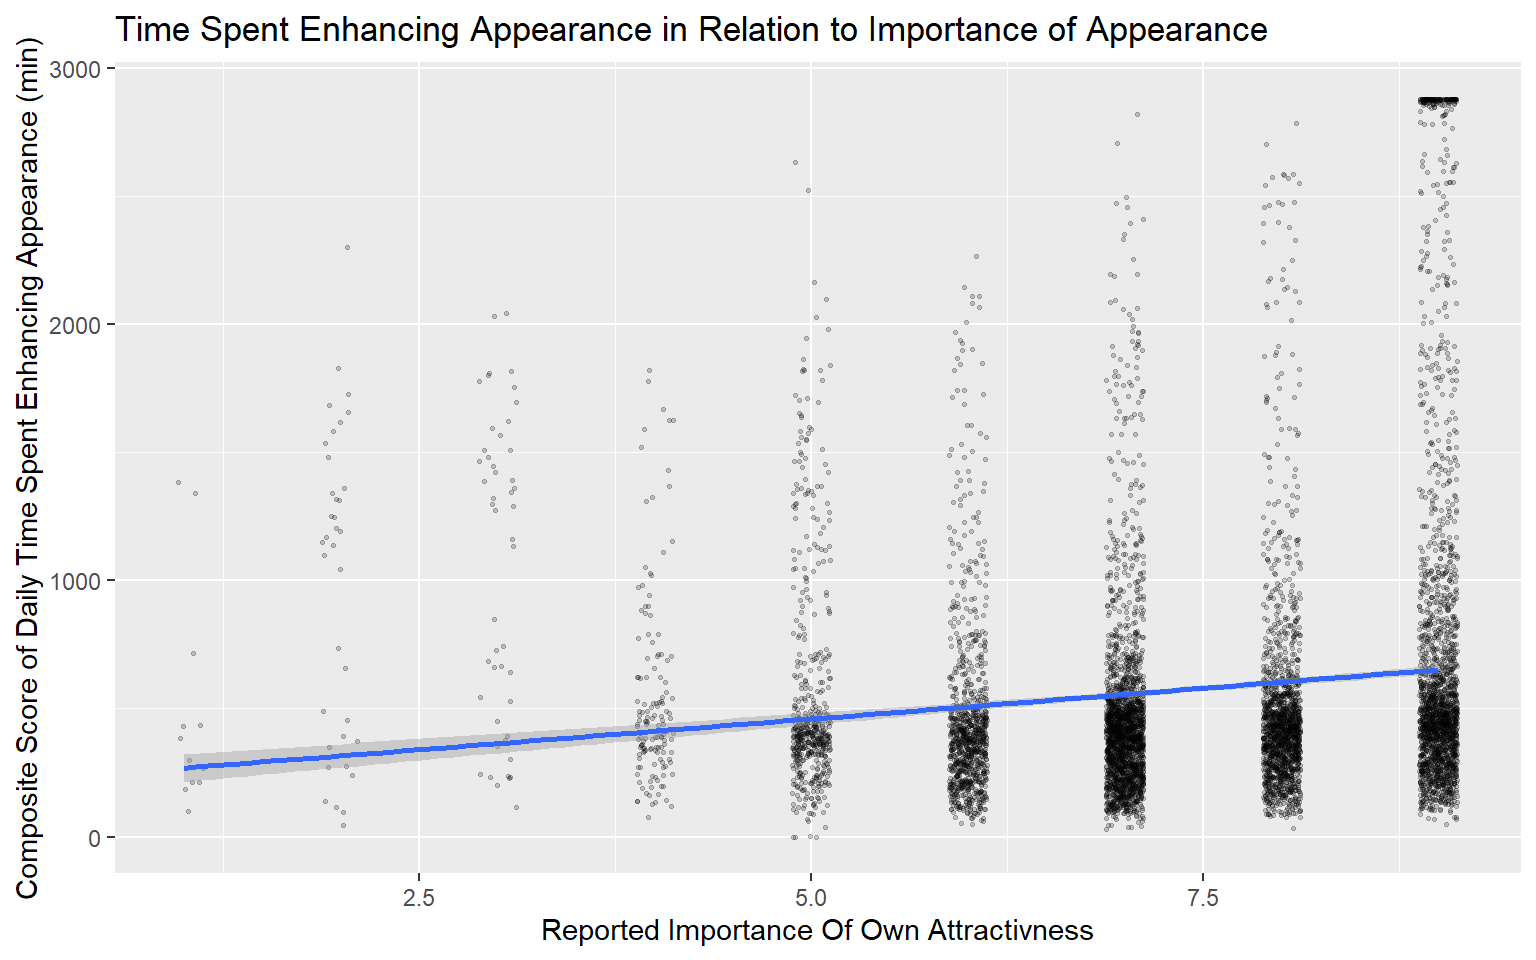
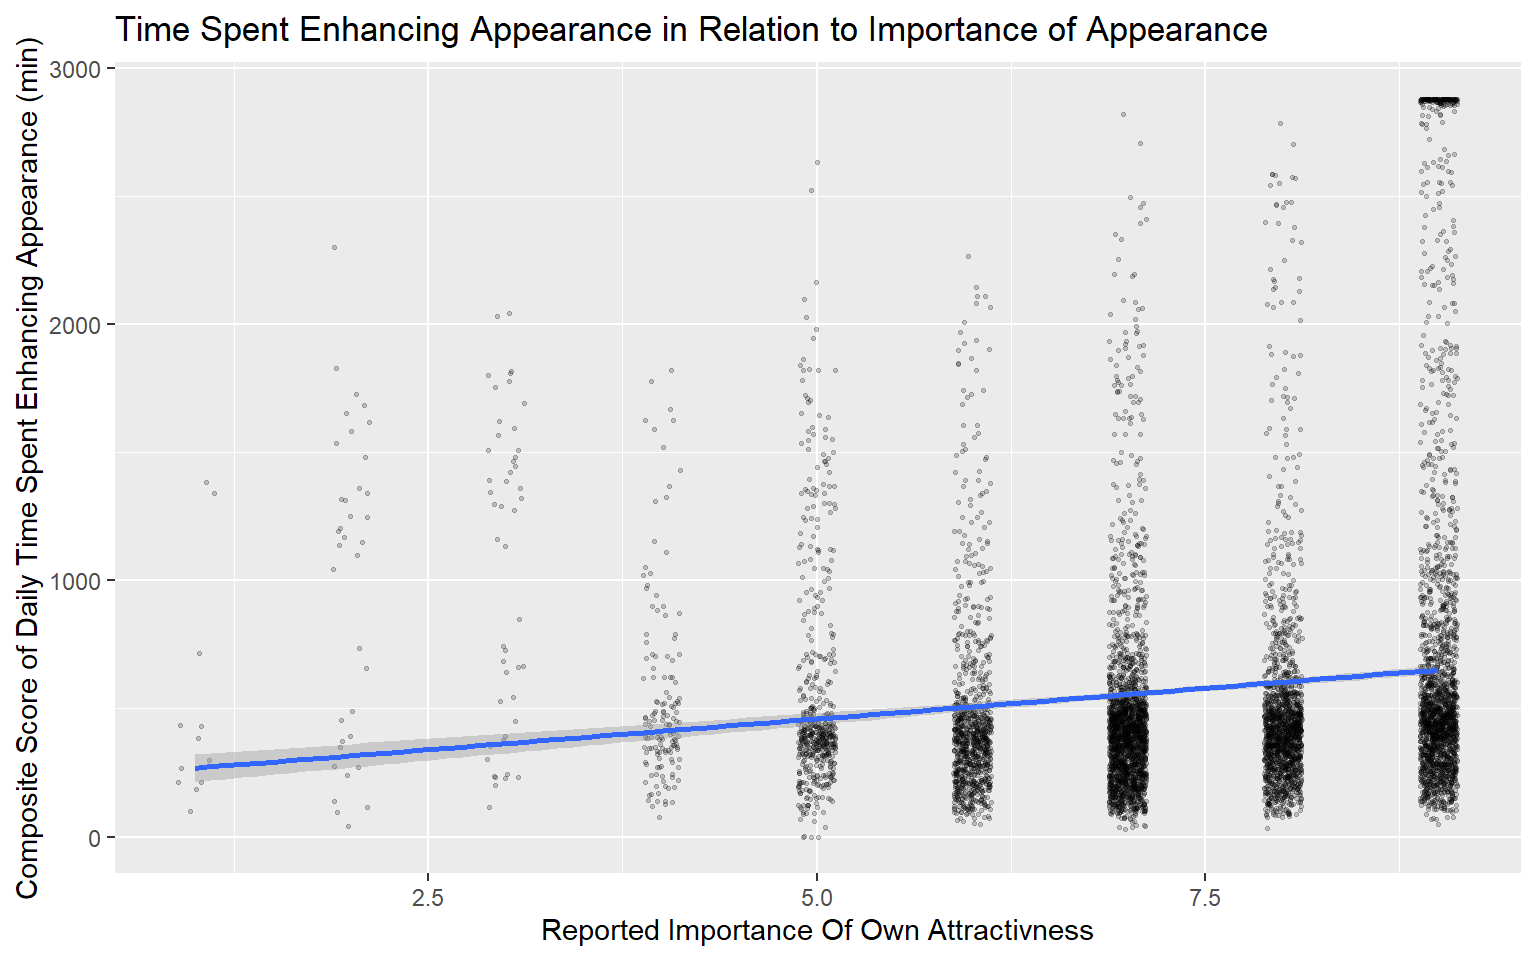
hw6 quarto typo update

diff --git a/script/lab6_quarto_JS.html b/script/lab6_quarto_JS.html
@@ -188,7 +188,7 @@ h1$cot_politics: far_right
   1.000   6.000   7.000   7.111   9.000  11.000 </code></pre>
 </div>
 </div>
-<p>#fig-distr shows the distribution of observations of political beliefs.</p>
+<p><a href="#fig-distr" class="quarto-xref">Figure&nbsp;1</a> shows the distribution of observations of political beliefs.</p>
 <div class="cell">
 <details class="code-fold">
 <summary>Code</summary>
